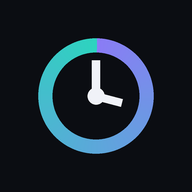
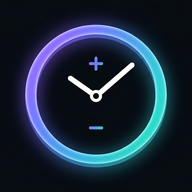
Botón Actualizar app e icono nuevo creado con Gemini

diff --git a/app.js b/app.js
@@ -5,6 +5,8 @@
    ========================================================= */
 
 const KEY = 'mishoras.v1';
+// Súbela junto a VERSION en sw.js en cada publicación
+const APP_VERSION = '1.2';
 const DAYS = ['Lunes', 'Martes', 'Miércoles', 'Jueves', 'Viernes', 'Sábado', 'Domingo'];
 const DAYS_SHORT = ['Lun', 'Mar', 'Mié', 'Jue', 'Vie', 'Sáb', 'Dom'];
 const DAYS_LETTER = ['L', 'M', 'X', 'J', 'V', 'S', 'D'];
@@ -57,7 +59,8 @@ const ICON = {
   alert: '<path d="M12 3l10 18H2z"/><path d="M12 10v5M12 18v.01"/>',
   shield: '<path d="M12 3l8 3v6c0 5-3.5 8-8 9-4.5-1-8-4-8-9V6z"/><path d="M9 12l2 2 4-4"/>',
   copy: '<rect x="9" y="9" width="12" height="12" rx="2"/><path d="M5 15H4a1 1 0 0 1-1-1V4a1 1 0 0 1 1-1h10a1 1 0 0 1 1 1v1"/>',
-  flag: '<path d="M5 21V4M5 4h11l-2 4 2 4H5"/>'
+  flag: '<path d="M5 21V4M5 4h11l-2 4 2 4H5"/>',
+  refresh: '<path d="M20 11a8 8 0 0 0-14.6-4.5L3 9"/><path d="M3 4v5h5"/><path d="M4 13a8 8 0 0 0 14.6 4.5L21 15"/><path d="M21 20v-5h-5"/>'
 };
 const ico = (n) => `<svg viewBox="0 0 24 24">${ICON[n] || ''}</svg>`;
 
@@ -735,6 +738,7 @@ VIEWS.perfil = () => {
   <div class="section-title">Ajustes</div>
   <div class="card menu" style="padding:0">
     ${menuItem('settings', 'gear', 'Cálculo de horas', `${st.diasLab} días laborables · saldo inicial ${fmtDur(st.saldoInicial, true)}`)}
+    ${menuItem('updateApp', 'refresh', 'Actualizar app', `Versión ${APP_VERSION} · busca y carga la última versión`)}
   </div>
 
   <div class="section-title">Tus datos</div>
@@ -743,7 +747,7 @@ VIEWS.perfil = () => {
     ${menuItem('importJson', 'upload', 'Restaurar copia', 'Recuperar datos desde un archivo .json')}
     ${menuItem('wipe', 'trash', 'Borrar todos los datos', 'No se puede deshacer', 'danger')}
   </div>
-  <p class="muted small" style="text-align:center;margin-top:18px">Mis Horas · tus datos se guardan solo en este dispositivo.</p>`;
+  <p class="muted small" style="text-align:center;margin-top:18px">Mis Horas v${APP_VERSION} · tus datos se guardan solo en este dispositivo.</p>`;
 };
 function menuItem(act, icon, title, sub, extra = '') {
   return `<button class="menu-item ${extra}" data-act="${act}"><span class="mi-ic">${ico(icon)}</span><div><b>${title}</b><small>${esc(sub)}</small></div><svg class="chev" viewBox="0 0 24 24">${ICON.chev}</svg></button>`;
@@ -1401,6 +1405,37 @@ $('#importFile').addEventListener('change', async (e) => {
   }
 });
 
+/* ---------- Actualizar la app ---------- */
+// Descarga la última versión publicada y recarga. Los datos (localStorage) no se tocan.
+async function updateApp() {
+  toast('Buscando actualizaciones…');
+  try {
+    if ('serviceWorker' in navigator) {
+      const reg = await navigator.serviceWorker.getRegistration();
+      if (reg) {
+        await reg.update();
+        if (reg.waiting) reg.waiting.postMessage('skipWaiting');
+      }
+    }
+    if (window.caches) {
+      const keys = await caches.keys();
+      await Promise.all(keys.map((k) => caches.delete(k)));
+    }
+  } catch (e) { /* sin conexión: se recarga igualmente */ }
+  try { localStorage.setItem(KEY + '.updating', '1'); } catch (e) {}
+  setTimeout(() => location.reload(), 700);
+}
+function announceUpdate() {
+  try {
+    const prev = localStorage.getItem(KEY + '.appVersion');
+    const asked = localStorage.getItem(KEY + '.updating');
+    localStorage.setItem(KEY + '.appVersion', APP_VERSION);
+    localStorage.removeItem(KEY + '.updating');
+    if (prev && prev !== APP_VERSION) toast(`App actualizada a la versión ${APP_VERSION}`);
+    else if (asked) toast(`Ya tienes la última versión (${APP_VERSION})`);
+  } catch (e) {}
+}
+
 /* ---------- Calendario (.ics) ---------- */
 function weekIcs(w) {
   const dt = (d) => `${d.getFullYear()}${pad(d.getMonth() + 1)}${pad(d.getDate())}T${pad(d.getHours())}${pad(d.getMinutes())}00`;
@@ -1449,6 +1484,7 @@ const ACT = {
   settings() { openSettings(); },
   goHistory() { go('#/historial'); },
   exportJson() { exportJson(); },
+  updateApp() { updateApp(); },
   importJson() { $('#importFile').click(); },
   async wipe() {
     if (!(await confirmBox('Borrar todo', 'Se borrarán todas las semanas, movimientos y datos. Descarga antes una copia de seguridad.', 'Borrar todo', true))) return;
@@ -1495,6 +1531,7 @@ document.addEventListener('touchmove', (e) => { if (e.touches.length > 1) e.prev
   $('#barDate').textContent = `${DAYS_SHORT[(d.getDay() + 6) % 7]} ${d.getDate()} ${MONTHS[d.getMonth()]}`;
   if (!location.hash) history.replaceState(null, '', '#/inicio');
   route();
+  announceUpdate();
   // refresca la cuenta atrás del próximo turno
   setInterval(() => { if ((location.hash || '#/inicio').startsWith('#/inicio') && !sheetEl) route(); }, 60000);
 })();

diff --git a/sw.js b/sw.js
@@ -1,5 +1,5 @@
 // Cambia la versión al publicar cambios para que el móvil descargue la nueva app.
-const VERSION = 'mishoras-v2';
+const VERSION = 'mishoras-v3';
 const SHELL = [
   './',
   'index.html',
@@ -11,7 +11,9 @@ const SHELL = [
   'vendor/jspdf.plugin.autotable.min.js',
   'icons/icon-192.png',
   'icons/icon-512.png',
-  'icons/apple-touch-icon.png'
+  'icons/apple-touch-icon.png',
+  'icons/favicon-32.png',
+  'icons/icon-maskable-512.png'
 ];
 
 self.addEventListener('install', (e) => {
@@ -24,6 +26,11 @@ self.addEventListener('activate', (e) => {
       .then((keys) => Promise.all(keys.filter((k) => k !== VERSION).map((k) => caches.delete(k))))
       .then(() => self.clients.claim())
   );
+});
+
+// El botón "Actualizar app" pide activar ya la versión nueva
+self.addEventListener('message', (e) => {
+  if (e.data === 'skipWaiting') self.skipWaiting();
 });
 
 self.addEventListener('fetch', (e) => {
@@ -53,7 +60,7 @@ self.addEventListener('fetch', (e) => {
 
   // App: red primero (para recibir actualizaciones), caché si no hay conexión
   e.respondWith(
-    fetch(req)
+    fetch(req, { cache: 'no-cache' })
       .then((res) => {
         const copy = res.clone();
         caches.open(VERSION).then((c) => c.put(req, copy));

diff --git a/index.html b/index.html
@@ -12,7 +12,8 @@
   <meta name="apple-mobile-web-app-status-bar-style" content="black-translucent">
   <meta name="apple-mobile-web-app-title" content="Mis Horas">
   <link rel="manifest" href="manifest.webmanifest">
-  <link rel="icon" type="image/png" href="icons/icon-192.png">
+  <link rel="icon" type="image/png" sizes="32x32" href="icons/favicon-32.png">
+  <link rel="icon" type="image/png" sizes="192x192" href="icons/icon-192.png">
   <link rel="apple-touch-icon" href="icons/apple-touch-icon.png">
   <link rel="preconnect" href="https://fonts.googleapis.com">
   <link rel="preconnect" href="https://fonts.gstatic.com" crossorigin>
